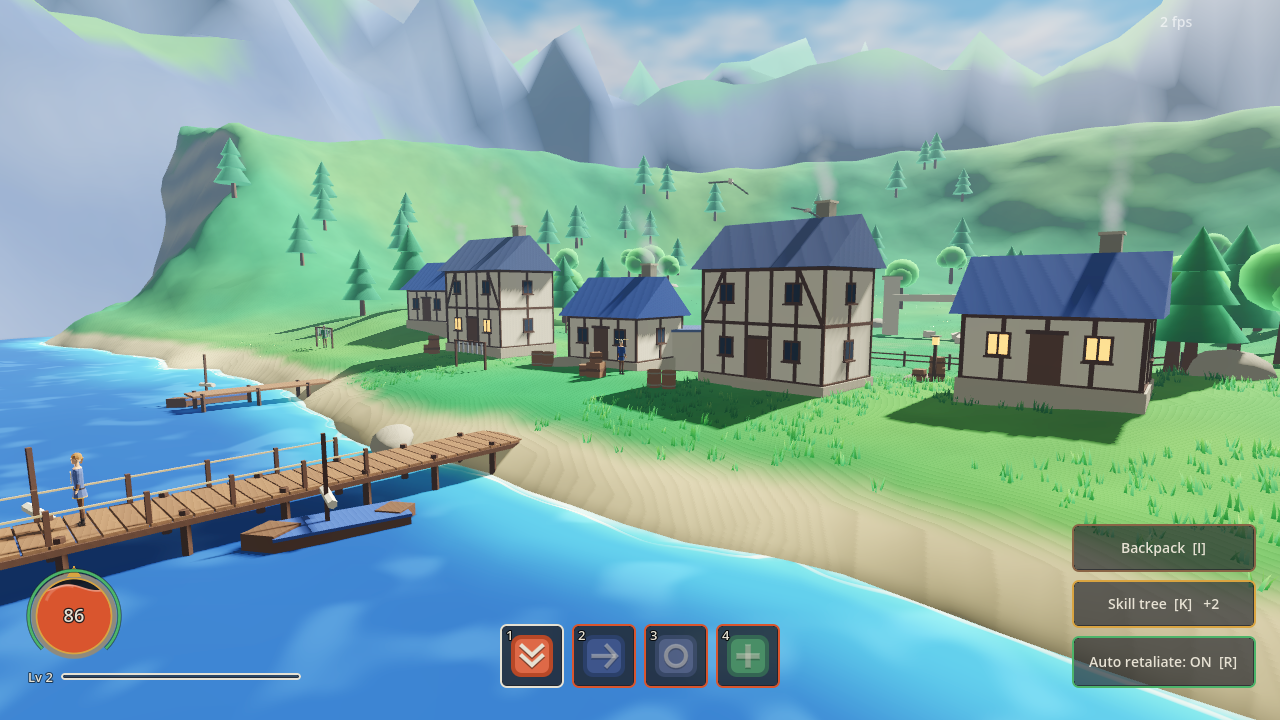
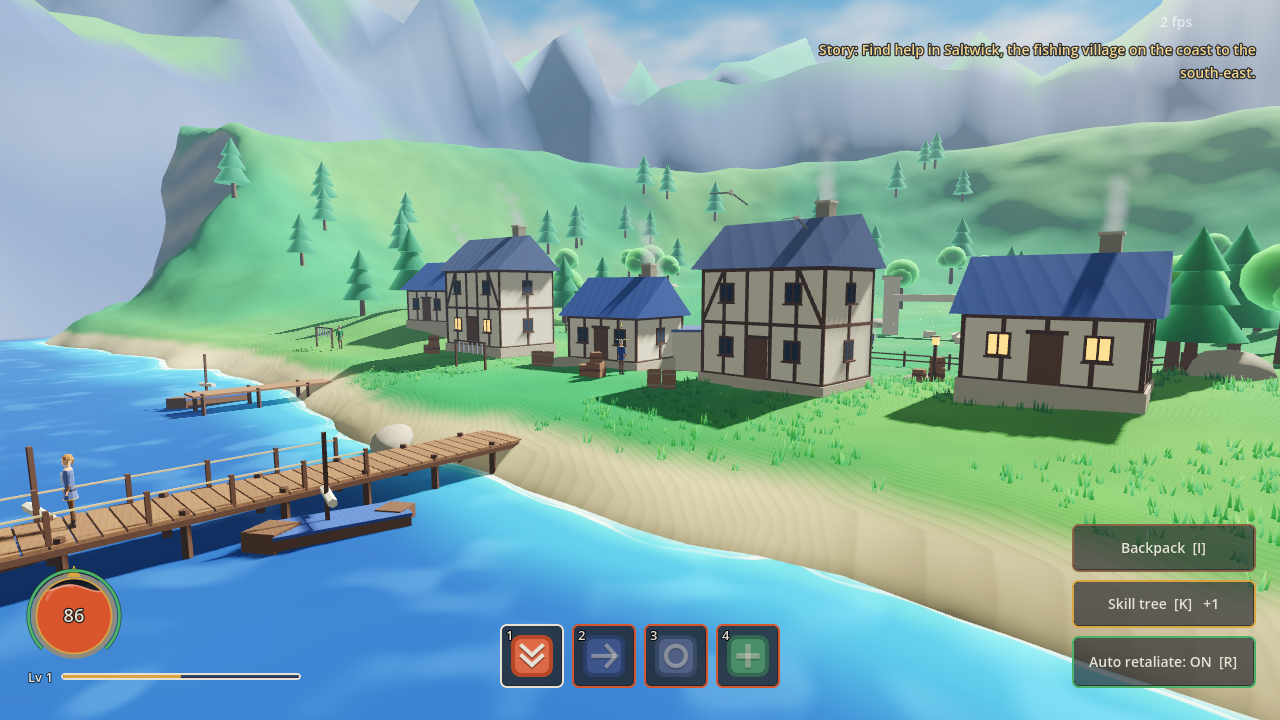
Questlog met hoofdstukken, stappen en markeringen boven questgevers
Claude-Session: https://claude.ai/code/session_01X1Hshh3gfRJFNSyViJVPYM

diff --git a/CHANGELOG.md b/CHANGELOG.md
@@ -18,6 +18,7 @@ Feedback van de eigenaar verwerkt: besturing in RuneScape-stijl, haperingen bij 
 - **Klassen en skilltree (keuze-issue #1):** de eigenaar koos A met Priest en Warlock erbij, en C los. Er zijn nu 5 klassen (Vanguard, Ranger, Arcanist, Priest, Warlock). Vanguard is speelbaar met een boom van 3 takken (Blade, Bulwark, Momentum). XP per verslagen Hollowed, levels, 1 skillpunt per level. Skills op de balk worden pas bruikbaar als je ze in de boom vrijspeelt (Cleave heb je vanaf het begin). Karaktervenster met **K** of de knop rechtsonder, met daarin ook je trouw aan een factie (geen invloed op je klasse). XP-balk en level-up-melding in de HUD.
 - **Loot en rugzak:** Hollowed laten een buidel met coins, Veil Dust en soms zeldzamere spullen vallen. Rugzak van 28 vakjes (I), eten geneest.
 - **Eerste quest met dialoog:** klik op Brenna Gale in Saltwick. Quest "Ashes on the Shore" (5 Veil Dust), met droge humor, beloning in XP, coins en vis. Daarna wijst ze je naar de gedoofde Veilspire. Questlog (L) en tracker rechtsboven.
+- **Questlog met duidelijke stappen (feedback):** het verhaal staat in hoofdstukken, elke quest heeft stappen (✓ gedaan, ▸ huidige, ○ nog te doen), de tracker toont je huidige verhaalstap en "!" en "?" hangen boven questgevers.
 - **UI-ontwerp:** nieuw document `docs/UI.md` met stijlregels, schermindeling en de verfijnde versie van alle HUD-onderdelen (vraag van de eigenaar). De eerste stappen zijn gebouwd: een health-orb met golvende vloeistof en een stamina-boog, en een radiale cooldown op de skillbalk.
 - **Alles Engels in het spel:** in-game tekst was al Engels. Nu zijn ook alle namen officieel Engels (Saltwick, Warden's Vale, the Veil, the Hollowed, the Saltbound enzovoort), met een namenlijst in `docs/DESIGN.md`. Bij het binnenlopen van een gebied verschijnt de naam in beeld.
 - **Roadmap:** nieuwe koers. Eerst een verticale slice van het eerste gebied (klassen en skilltree, XP en loot, quest met dialoog, opslaan, geluid, modellen bijschaven), pas daarna de wereld uitbreiden.
@@ -41,6 +42,7 @@ Feedback van de eigenaar verwerkt: besturing in RuneScape-stijl, haperingen bij 
 ![Dorpeling met een grap](docs/screenshots/2026-11-13b/07_dorpeling.png)
 ![Skilltree](docs/screenshots/2026-11-13b/08_skilltree.png)
 ![Quest bij Brenna](docs/screenshots/2026-11-13b/09_quest.png)
+![Questlog](docs/screenshots/2026-11-13b/10_questlog.png)
 
 **Zelfcontrole**
 - Diepte: ja, sterk in het dorpsbeeld (steiger, huizen, heuvels, bergen). | Landmark: Veilspire en de zwevende kroonscherf. | Palet: ja. Koningsblauwe daken, steenkleurige muren, hemelblauw water. Gras van dichtbij is nog wat fel. | Game of demo: game. Het dorp en de avond zien eruit als een spel. | Zwakste deel: het gras dichtbij (fel en egaal) en de bergring overdag.

diff --git a/feedback/verwerkt/2026-11-13-questlog.md b/feedback/verwerkt/2026-11-13-questlog.md
@@ -1,0 +1,12 @@
+ergens moet ook nog een questlog komen met duidelijke stappen of waar je in het verhaal staat.
+
+---
+
+## Verwerkt op 13-11-2026 (bouwagent)
+
+De questlog (L) laat nu precies zien waar je staat:
+- **Verhaal in hoofdstukken:** "Story · Chapter I: The Last Warden", met de hoofdlijn als stappen.
+- **Elke quest met stappen:** ✓ gedaan, ▸ huidige stap (goud), ○ nog te doen. Bij verzamelopdrachten staat de teller in de stap (Veil Dust 3/5).
+- **Tracker rechtsboven:** de huidige verhaalstap en de huidige stap van je side quest.
+- **Markeringen in de wereld:** "!" boven Brenna als ze een quest heeft, "?" als je iets kunt inleveren.
+- Het verhaal start meteen bij het begin van het spel, zodat je direct weet dat je naar Saltwick moet.
